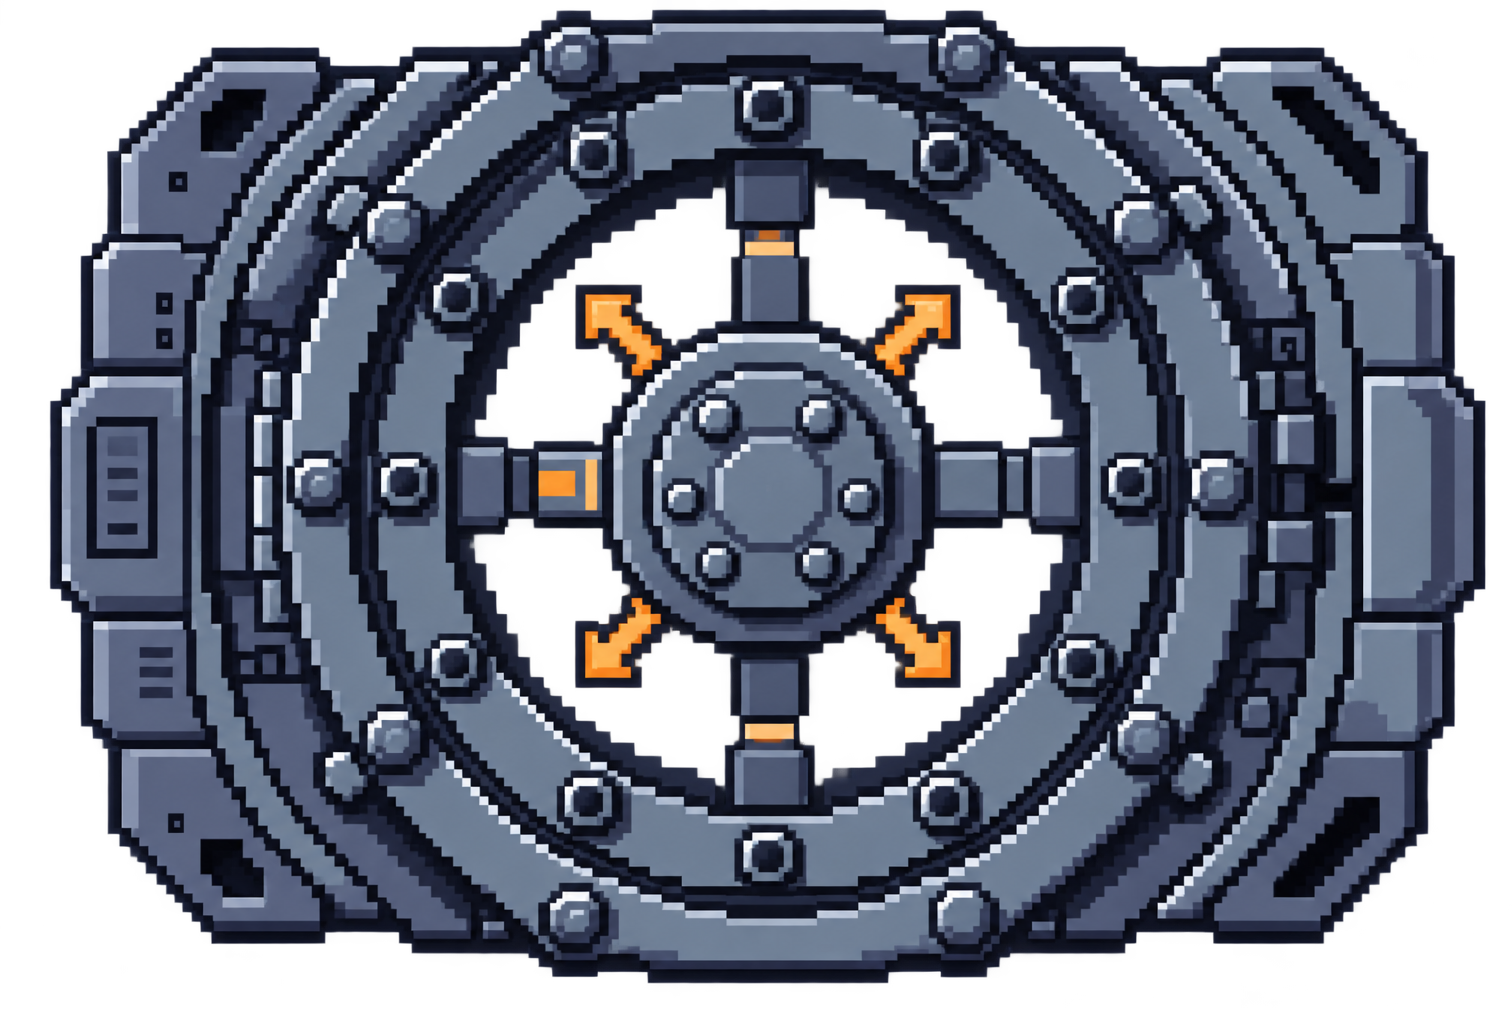
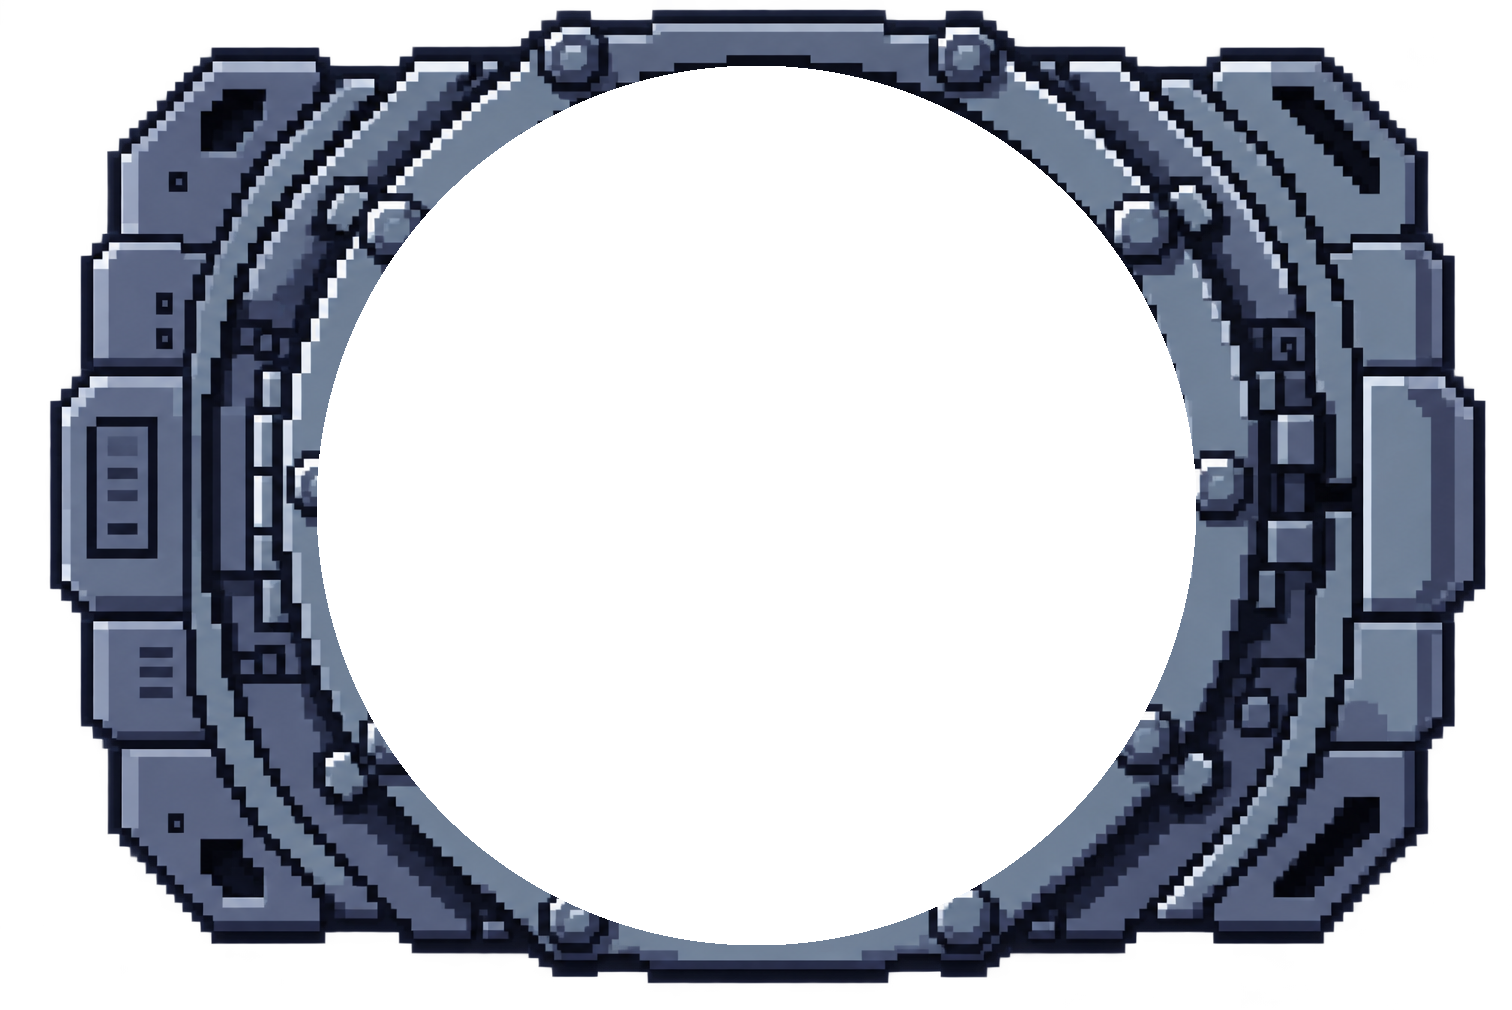
Fix double arrows on hatch wheel and streamline crisis minitask to floating card matching Solar Array UI

diff --git a/final_mission.html b/final_mission.html
@@ -2219,7 +2219,7 @@
     }
 
     /* =========================================================================
-       CRISIS MINI-TASK INTERACTIVE TERMINAL
+       CRISIS MINI-TASK FLOATING CARD (Matches Game Educational/Diagram Card UI)
        ========================================================================= */
     .crisis-minitask-overlay {
       position: absolute;
@@ -2232,14 +2232,13 @@
       flex-direction: column;
       align-items: center;
       justify-content: flex-start;
-      background: rgba(3, 8, 18, 0.92);
-      backdrop-filter: blur(5px);
-      -webkit-backdrop-filter: blur(5px);
+      background: transparent;
       box-sizing: border-box;
-      padding-top: clamp(50px, 7vh, 65px);
+      padding-top: clamp(48px, 6.8vh, 62px);
       padding-bottom: clamp(140px, 19vh, 175px);
       padding-left: clamp(12px, 1.8vw, 24px);
       padding-right: clamp(12px, 1.8vw, 24px);
+      pointer-events: none;
     }
 
     .crisis-minitask-overlay.hidden {
@@ -2247,57 +2246,57 @@
     }
 
     .minitask-card {
-      width: 100%;
-      max-width: 1060px;
+      width: clamp(380px, 54vw, 780px);
+      max-width: 92vw;
       height: auto;
-      max-height: 100%;
-      background: linear-gradient(180deg, rgba(8, 24, 48, 0.98) 0%, rgba(4, 12, 28, 0.99) 100%);
+      max-height: calc(100vh - clamp(155px, 21vh, 190px));
+      background: rgba(8, 24, 48, 0.90);
+      backdrop-filter: blur(8px);
+      -webkit-backdrop-filter: blur(8px);
       border: 2px solid #00e5ff;
       border-radius: 12px;
-      box-shadow: 0 0 35px rgba(0, 229, 255, 0.45), inset 0 0 25px rgba(0, 229, 255, 0.15);
+      box-shadow: 0 0 25px rgba(0, 229, 255, 0.35), inset 0 0 15px rgba(0, 229, 255, 0.08);
       display: flex;
       flex-direction: column;
-      padding: clamp(8px, 1.2vh, 14px) clamp(12px, 1.6vw, 18px);
+      padding: clamp(10px, 1.5vh, 16px) clamp(14px, 1.8vw, 20px);
       box-sizing: border-box;
       color: #e0f2fe;
       position: relative;
       overflow-y: auto;
+      pointer-events: auto;
     }
 
     .minitask-header {
       display: flex;
       align-items: center;
-      justify-content: space-between;
+      justify-content: center;
       border-bottom: 1.5px solid rgba(0, 229, 255, 0.3);
       padding-bottom: 6px;
-      margin-bottom: 6px;
+      margin-bottom: 8px;
+      position: relative;
     }
 
     .minitask-title-wrap {
       display: flex;
+      flex-direction: column;
       align-items: center;
-      gap: 12px;
+      text-align: center;
     }
 
     .minitask-headline {
       font-family: var(--font-pixel);
-      font-size: clamp(1.15rem, 1.6vw, 1.55rem);
-      color: #00e5ff;
-      letter-spacing: 0.05em;
-      text-shadow: 0 0 8px rgba(0, 229, 255, 0.6);
+      font-size: clamp(1.1rem, 1.5vw, 1.45rem);
+      color: #ffffff;
+      letter-spacing: 0.04em;
+      text-shadow: 0 0 10px rgba(0, 229, 255, 0.7);
     }
 
     .minitask-subline {
-      font-size: clamp(0.85rem, 1.1vw, 1.02rem);
-      color: #cbd5e1;
-      letter-spacing: 0.04em;
-      margin-top: 3px;
+      display: none;
     }
 
     .minitask-actions {
-      display: flex;
-      align-items: center;
-      gap: 12px;
+      display: none;
     }
 
     .minitask-status-badge {
@@ -2813,13 +2812,20 @@
     }
     .pixel-hatch-assembly {
       position: relative;
-      width: clamp(280px, 34vh, 380px);
-      aspect-ratio: 1512 / 1010;
+      width: clamp(190px, 24vh, 250px);
+      aspect-ratio: 1 / 1;
+      border-radius: 50%;
       cursor: pointer;
       filter: drop-shadow(0 0 20px rgba(56, 189, 248, 0.45));
       transition: transform 0.2s ease, filter 0.3s ease;
       user-select: none;
       margin: 0 auto;
+      display: flex;
+      align-items: center;
+      justify-content: center;
+      background: radial-gradient(circle, #0c1829 60%, #030712 100%);
+      box-shadow: 0 0 24px rgba(0, 229, 255, 0.3), inset 0 0 16px rgba(0, 0, 0, 0.8);
+      border: 3px solid #1e293b;
     }
     .pixel-hatch-assembly:hover {
       filter: drop-shadow(0 0 28px rgba(0, 229, 255, 0.75));
@@ -2827,27 +2833,20 @@
     }
     .pixel-hatch-assembly.locked {
       filter: drop-shadow(0 0 24px rgba(16, 185, 129, 0.85));
-    }
-    .pixel-hatch-frame {
-      width: 100%;
-      height: 100%;
-      object-fit: fill;
-      display: block;
-      image-rendering: pixelated;
+      border-color: #10b981;
+      box-shadow: 0 0 28px rgba(16, 185, 129, 0.4);
     }
     .pixel-hatch-wheel {
-      position: absolute;
-      left: 50%;
-      top: 50%;
-      width: 60.185%;
-      height: 90.099%;
+      width: 100%;
+      height: 100%;
       transform-origin: center center;
-      object-fit: fill;
+      object-fit: contain;
       image-rendering: pixelated;
       transition: transform 0.45s cubic-bezier(0.34, 1.56, 0.64, 1);
+      display: block;
     }
     .pixel-hatch-assembly.locked .pixel-hatch-wheel {
-      filter: drop-shadow(0 0 12px rgba(16, 185, 129, 0.9));
+      filter: drop-shadow(0 0 14px rgba(16, 185, 129, 0.95));
     }
     .scifi-hatch-svg {
       width: clamp(190px, 24vh, 235px);
@@ -5777,32 +5776,25 @@
       }
 
       if (taskId === 'm2_lockdown') {
-        if (headline) headline.textContent = "CRISIS PROTOCOL // M2";
-        if (subline) subline.textContent = "SHELTER LOCKDOWN & HATCH ALIGNMENT";
+        if (headline) headline.textContent = "Shelter Lockdown & Hatch Alignment";
         renderM2LockdownTask();
       } else if (taskId === 'm3_pdu') {
-        if (headline) headline.textContent = "CRISIS PROTOCOL // M3";
-        if (subline) subline.textContent = "PDU EMERGENCY BUS ROUTING";
+        if (headline) headline.textContent = "Emergency Power Bus Routing";
         renderM3PduTask();
       } else if (taskId === 'm4_electrolysis') {
-        if (headline) headline.textContent = "CRISIS PROTOCOL // M4";
-        if (subline) subline.textContent = "ISRU ELECTROLYSIS & GAS FLOW MANIFOLD";
+        if (headline) headline.textContent = "ISRU Electrolysis & Gas Flow Manifold";
         renderM4ElectrolysisTask();
       } else if (taskId === 'm5_watertrap') {
-        if (headline) headline.textContent = "CRISIS PROTOCOL // M5";
-        if (subline) subline.textContent = "SEDIMENT PURGE & WATER FILTRATION MANIFOLD";
+        if (headline) headline.textContent = "Sediment Purge & Water Filtration";
         renderM5WaterTrapTask();
       } else if (taskId === 'm6_hydroponics') {
-        if (headline) headline.textContent = "CRISIS PROTOCOL // M6";
-        if (subline) subline.textContent = "HYDROPONIC BIOLOOP & NUTRIENT BALANCING";
+        if (headline) headline.textContent = "Hydroponic Bioloop & Nutrient Balancing";
         renderM6HydroponicsTask();
       } else if (taskId === 'm7_busfault') {
-        if (headline) headline.textContent = "CRISIS PROTOCOL // M7";
-        if (subline) subline.textContent = "POWER BUS ARC FAULT ISOLATION";
+        if (headline) headline.textContent = "Power Bus Arc Fault Isolation";
         renderM7BusFaultTask();
       } else if (taskId === 'm8_finale') {
-        if (headline) headline.textContent = "CRISIS PROTOCOL // M8";
-        if (subline) subline.textContent = "FINAL OUTPOST SURVIVAL PROTOCOL";
+        if (headline) headline.textContent = "Final Outpost Normalization";
         renderM8FinaleTask();
       }
 
@@ -6136,8 +6128,7 @@
             <div class="m2-hatch-stage-wrap">
               <!-- Pixel Art Mechanical Airlock Hatch (Assets: assets/hatch.png) -->
               <div class="pixel-hatch-assembly ${hatchLocked ? 'locked' : ''}" onclick="rotateM2Hatch(60)" title="Click wheel to rotate and engage bolts">
-                <img src="assets/m2_hatch_frame_final.png" class="pixel-hatch-frame" alt="Bulkhead Airlock Frame">
-                <img src="assets/m2_hatch_wheel_final.png" class="pixel-hatch-wheel" style="transform: translate(-50%, -50%) rotate(${m2TaskState.hatchAngle}deg);" alt="Airlock Locking Wheel">
+                <img src="assets/m2_hatch_wheel_final.png" class="pixel-hatch-wheel" style="transform: rotate(${m2TaskState.hatchAngle}deg);" alt="Airlock Locking Wheel">
               </div>
 
               <!-- Hatch Status Bar -->
@@ -7469,6 +7460,12 @@
       }
       if (urlParams.get('m2stage')) {
         m2TaskState.stage = parseInt(urlParams.get('m2stage'), 10);
+      }
+      if (urlParams.get('m2angle')) {
+        m2TaskState.hatchAngle = parseInt(urlParams.get('m2angle'), 10);
+      }
+      if (urlParams.get('m2bolts')) {
+        m2TaskState.hatchLockedBolts = parseInt(urlParams.get('m2bolts'), 10);
       }
       if (urlParams.get('m2stow')) {
         urlParams.get('m2stow').split(',').forEach(k => { if (m2TaskState.supplies[k] !== undefined) m2TaskState.supplies[k] = true; });
